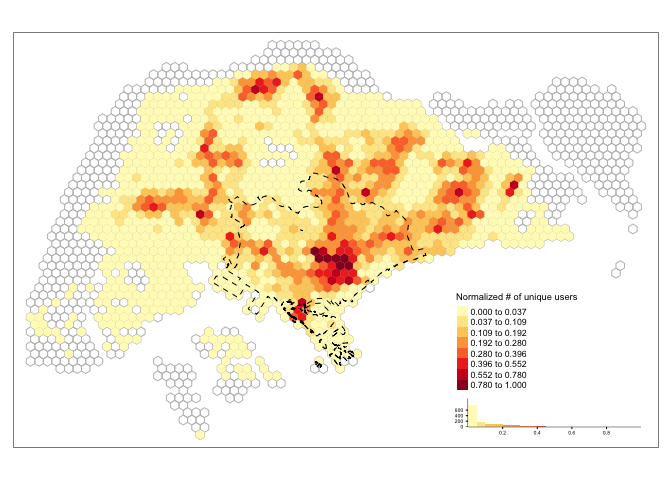
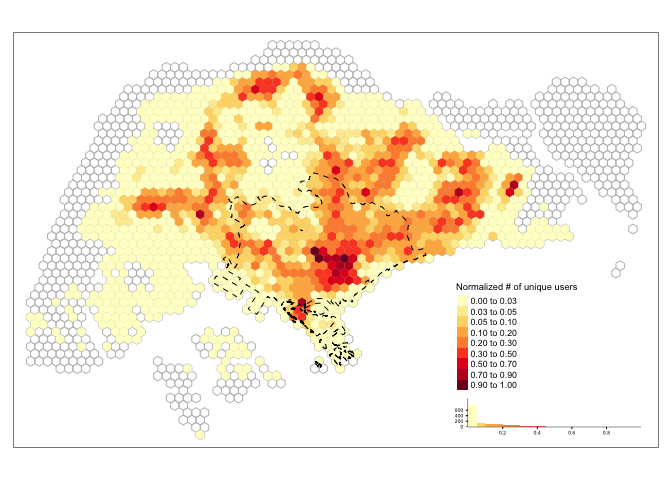
feat: update sptail visualization and format color breaks

diff --git a/analysis/02-figures-spatial-view-of-same-hm-users.md b/analysis/02-figures-spatial-view-of-same-hm-users.md
@@ -5,8 +5,9 @@ Spatial views
 
 ``` r
 #load de-identified dataset
-df <- read_csv(here("analysis/data/derived_data/deidentified_data.csv"))
-
+df <- read_csv(here("analysis/data/derived_data/deidentified_sg_tweets.csv")) %>% 
+  mutate(created_at = with_tz(created_at, tzone = "Asia/Singapore")) # the tweets were sent in Singapore, so must convert the timezone to SGT, the default timezone is UTC! 
+  
 #load grid cells 
 grids <-  st_read(here("analysis/data/derived_data/spatial_hex_grid.shp"), quiet = T) %>% 
   st_transform(crs = 3414)
@@ -15,10 +16,10 @@ grids <-  st_read(here("analysis/data/derived_data/spatial_hex_grid.shp"), quiet
 df_central_region <- st_read(here("analysis/data/raw_data/central_region.shp"), quiet = T) 
 
 #load inferred home locations 
-hm_apdm <- read_csv(here("analysis/data/derived_data/hm_apdm.csv")) %>% mutate(name = "APDM")
-hm_freq <- read_csv(here("analysis/data/derived_data/hm_freq.csv")) %>% mutate(name = "FREQ")
-hm_hmlc <- read_csv(here("analysis/data/derived_data/hm_hmlc.csv")) %>% mutate(name = "HMLC")
-hm_osna <- read_csv(here("analysis/data/derived_data/hm_osna.csv")) %>% mutate(name = "OSNA")
+hm_apdm <- read_csv(here("analysis/data/derived_data/hm_apdm_updated.csv")) %>% mutate(name = "APDM")
+hm_freq <- read_csv(here("analysis/data/derived_data/hm_freq_updated.csv")) %>% mutate(name = "FREQ")
+hm_hmlc <- read_csv(here("analysis/data/derived_data/hm_hmlc_updated.csv")) %>% mutate(name = "HMLC")
+hm_osna <- read_csv(here("analysis/data/derived_data/hm_osna_updated.csv")) %>% mutate(name = "OSNA")
 hm_all <- bind_rows(hm_apdm, hm_freq, hm_hmlc, hm_osna)
 head(hm_all)
 ```
@@ -26,12 +27,12 @@ head(hm_all)
     ## # A tibble: 6 x 3
     ##       u_id  home name 
     ##      <dbl> <dbl> <chr>
-    ## 1  3191716   849 APDM 
-    ## 2  4408429  1852 APDM 
-    ## 3 71391177  1126 APDM 
-    ## 4 18690315  1067 APDM 
-    ## 5 19578598  1475 APDM 
-    ## 6 64822321   759 APDM
+    ## 1 42151437  1622 APDM 
+    ## 2 44523269   962 APDM 
+    ## 3 71380694  1449 APDM 
+    ## 4 59406560   559 APDM 
+    ## 5 97357036  1394 APDM 
+    ## 6 80510132  1101 APDM
 
 ## Spatial views
 
@@ -51,6 +52,7 @@ same_hm_users <- hm_all %>%
 
 ``` r
 df_tweets_same_hm_users <- df %>% filter(u_id %in% same_hm_users)
+considered_grid_ids <- df_tweets_same_hm_users$grid_id %>% unique()
 
 #normalized number of tweets 
 norm_tweets <- df_tweets_same_hm_users %>% 
@@ -75,11 +77,11 @@ hm_same_users <- hm_all %>%
   unique()
 
 norm_home_users <- hm_same_users %>% 
-  mutate(home = as.numeric(home)) %>% 
   group_by(home) %>% 
   summarise(n_users_home = n_distinct(u_id)) %>% 
   mutate(norm_n_users_home = (n_users_home - min(n_users_home))/(max(n_users_home)-min(n_users_home))) %>%
-  left_join(., grids, by = c("home" = "grid_id")) %>% 
+  left_join(grids %>% filter(grid_id %in% considered_grid_ids), ., by = c("grid_id" = "home")) %>% 
+  replace(., is.na(.), 0) %>% 
   st_as_sf() 
 ```
 
@@ -90,18 +92,22 @@ norm_home_users <- hm_same_users %>%
 pop2015 <- st_read(here("analysis/data/raw_data/PLAN_BDY_DWELLING_TYPE_2015.shp"), quiet = T) %>%
   st_transform(., crs = 3414) %>% 
   st_make_valid()
+norm_pop2015 <- pop2015 %>% 
+  dplyr::select(PLN_AREA_N, TOTAL) %>% 
+  mutate(norm_total = (TOTAL - min(TOTAL))/(max(TOTAL) - min(TOTAL)))
 ```
 
 ### Geographical distribution of number of tweets (normalized)
 
 ``` r
-map_view <- function(grids, df_normalized, var_fill, df_central, legend.nm, show_central = F){
+map_view <- function(grids, df_normalized, var_fill, df_central, legend.nm, breaks,  show_central = F){
   tm_basic <- tm_shape(grids) + 
     tm_borders(col = "grey") + 
     tm_shape(df_normalized) +
     tm_fill(var_fill, 
             palette = "YlOrRd",
-            n = 8, style = "fisher", 
+            style = "fixed",
+            breaks = breaks,
             legend.hist = TRUE,
             title = legend.nm)
   
@@ -127,7 +133,7 @@ map_view <- function(grids, df_normalized, var_fill, df_central, legend.nm, show
 ```
 
 ``` r
-map_view(grids, norm_tweets, var_fill = "norm_n_tweets", legend.nm = "Normalized # of tweets")
+map_view(grids, norm_tweets, var_fill = "norm_n_tweets", legend.nm = "Normalized # of tweets", breaks = c(0, 0.03, 0.05, 0.1, 0.2, 0.3, 0.5, 0.7, 0.9, 1.0))
 ```
 
 <img src="02-figures-spatial-view-of-same-hm-users_files/figure-gfm/unnamed-chunk-6-1.png" style="display: block; margin: auto;" />
@@ -135,7 +141,7 @@ map_view(grids, norm_tweets, var_fill = "norm_n_tweets", legend.nm = "Normalized
 ### Geographical distribution of number of unique users (normalized)
 
 ``` r
-map_view(grids, norm_users, var_fill = "norm_n_users", df_central_region, legend.nm = "Normalized # of unique users", show_central = T)
+map_view(grids, norm_users, var_fill = "norm_n_users", df_central_region, legend.nm = "Normalized # of unique users", show_central = T, breaks = c(0, 0.03, 0.05, 0.1, 0.2, 0.3, 0.5, 0.7, 0.9, 1.0))
 ```
 
 <img src="02-figures-spatial-view-of-same-hm-users_files/figure-gfm/unnamed-chunk-7-1.png" style="display: block; margin: auto;" />
@@ -143,7 +149,7 @@ map_view(grids, norm_users, var_fill = "norm_n_users", df_central_region, legend
 ### Geographical distribution of number of inferred home locations (normalized)
 
 ``` r
-map_view(grids, norm_home_users, var_fill = "norm_n_users_home", legend.nm = "Normalized # of inferred homes")
+map_view(grids, norm_home_users, var_fill = "norm_n_users_home", legend.nm = "Normalized # of inferred homes", breaks = c(0, 0.03, 0.05, 0.1, 0.2, 0.3, 0.5, 0.7, 0.9, 1.0))
 ```
 
 <img src="02-figures-spatial-view-of-same-hm-users_files/figure-gfm/unnamed-chunk-8-1.png" style="display: block; margin: auto;" />
@@ -151,7 +157,7 @@ map_view(grids, norm_home_users, var_fill = "norm_n_users_home", legend.nm = "No
 ### Geographical distribution of number of residents
 
 ``` r
-map_view(grids, pop2015, var_fill = "TOTAL", legend.nm = "Normalized # of residents")
+map_view(grids, norm_pop2015, var_fill = "norm_total", legend.nm = "Normalized # of residents", breaks = c(0, 0.03, 0.05, 0.1, 0.2, 0.3, 0.5, 0.7, 0.9, 1.0))
 ```
 
 <img src="02-figures-spatial-view-of-same-hm-users_files/figure-gfm/unnamed-chunk-9-1.png" style="display: block; margin: auto;" />
